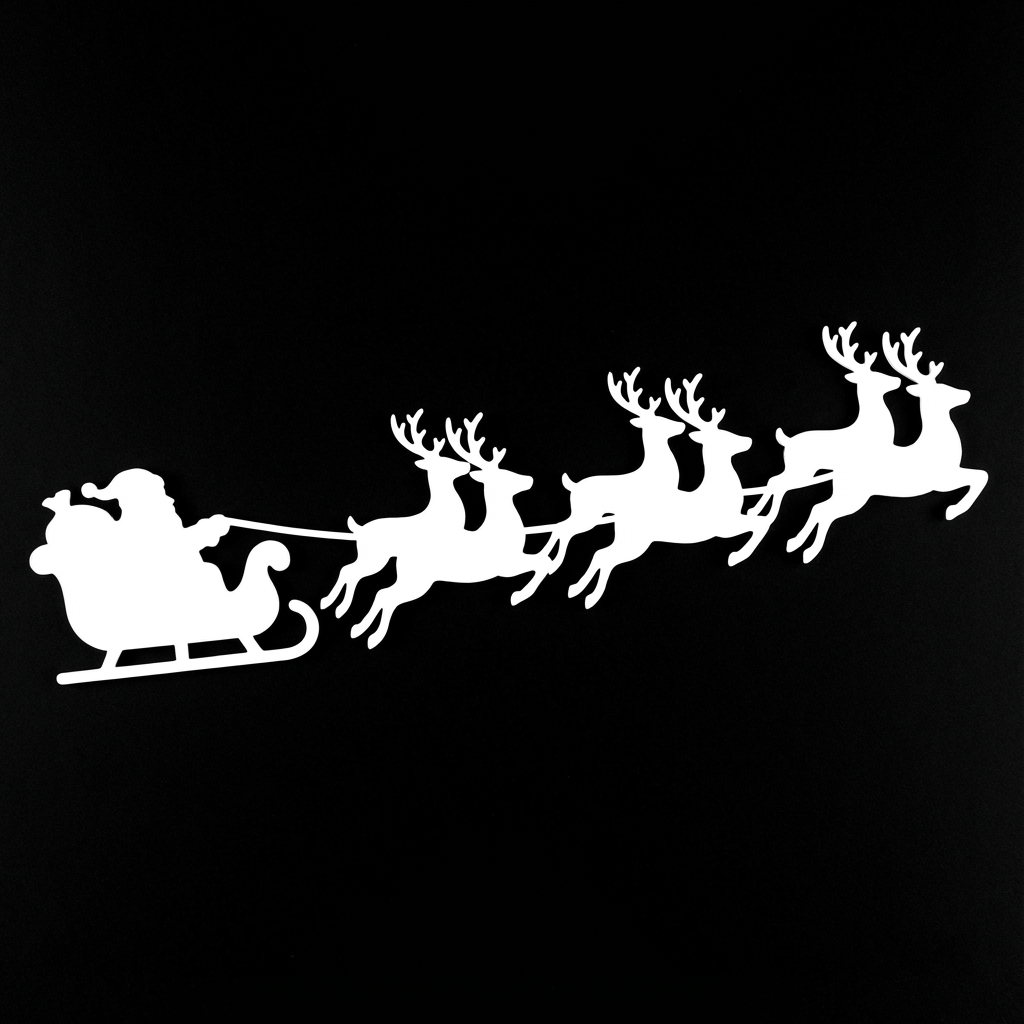
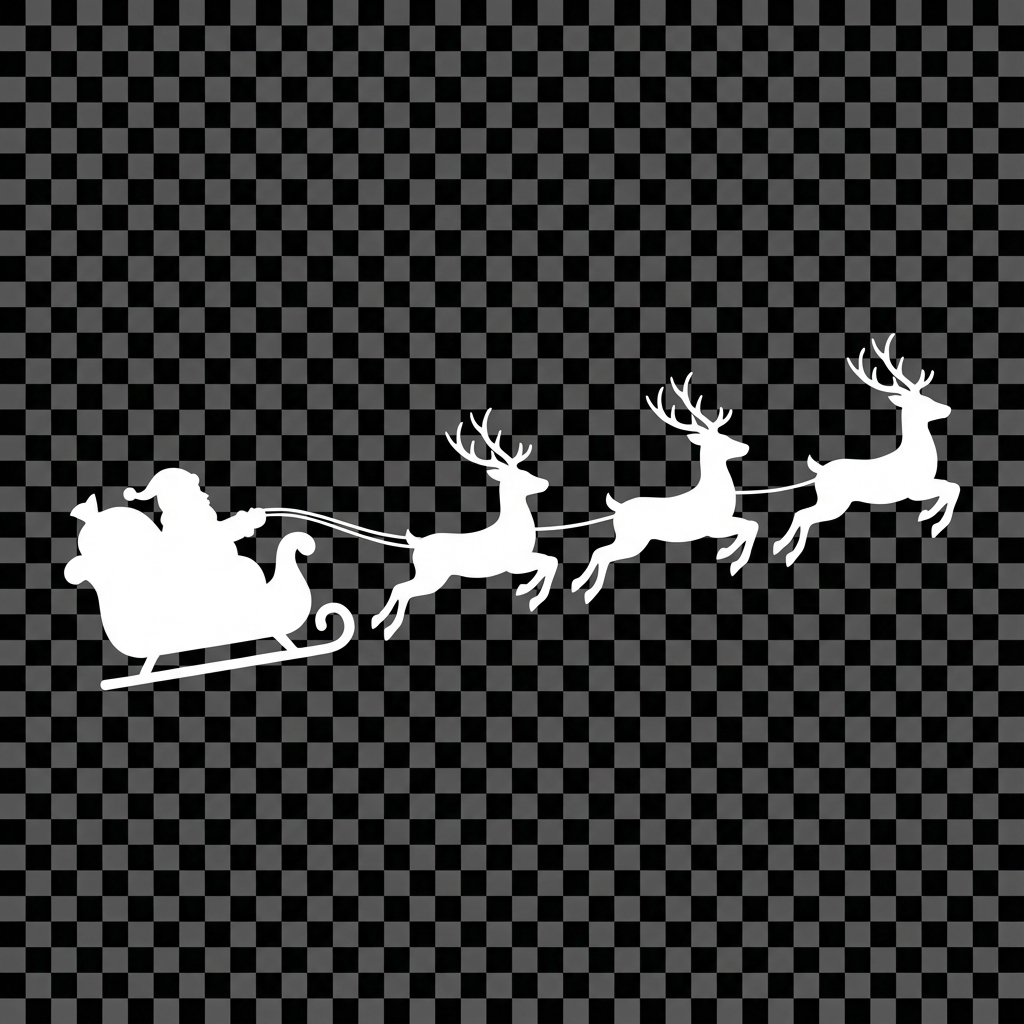
feat: replace Santa sleigh PNG with SVG and apply invert filter in particle component

diff --git a/src/subComponents/ParticleComponent.js b/src/subComponents/ParticleComponent.js
@@ -7,7 +7,7 @@ import ConfigSnow from "../config/particlesjs-config-snow.json";
 import Particles from "react-tsparticles";
 import { loadFull } from "tsparticles";
 
-import SantaImg from "../assets/santa-sleigh.png";
+import SantaImg from "../assets/Santas-Sleigh-And-Reindeer-Silhouette.svg";
 
 const Box = styled.div`
   position: absolute;
@@ -33,7 +33,7 @@ const Sleigh = styled.img`
   z-index: 1;
   animation: ${fly} 20s linear infinite;
   opacity: 0.8;
-  mix-blend-mode: screen;
+  filter: invert(1);
   
   @media (max-width: 768px) {
     width: 8rem;
